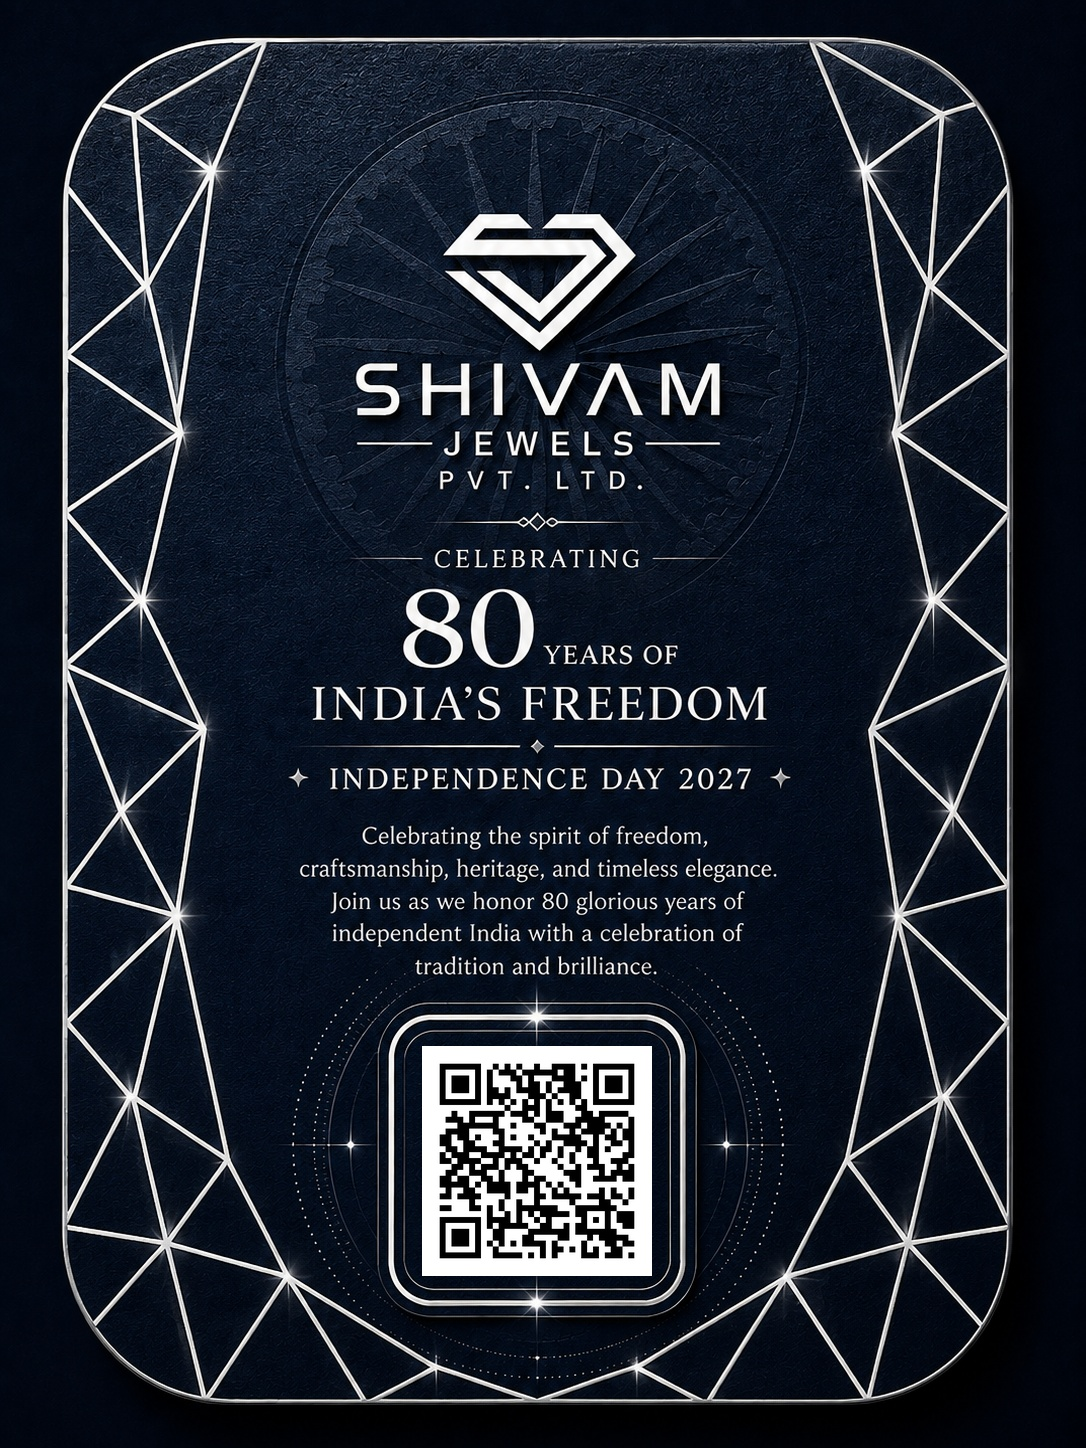
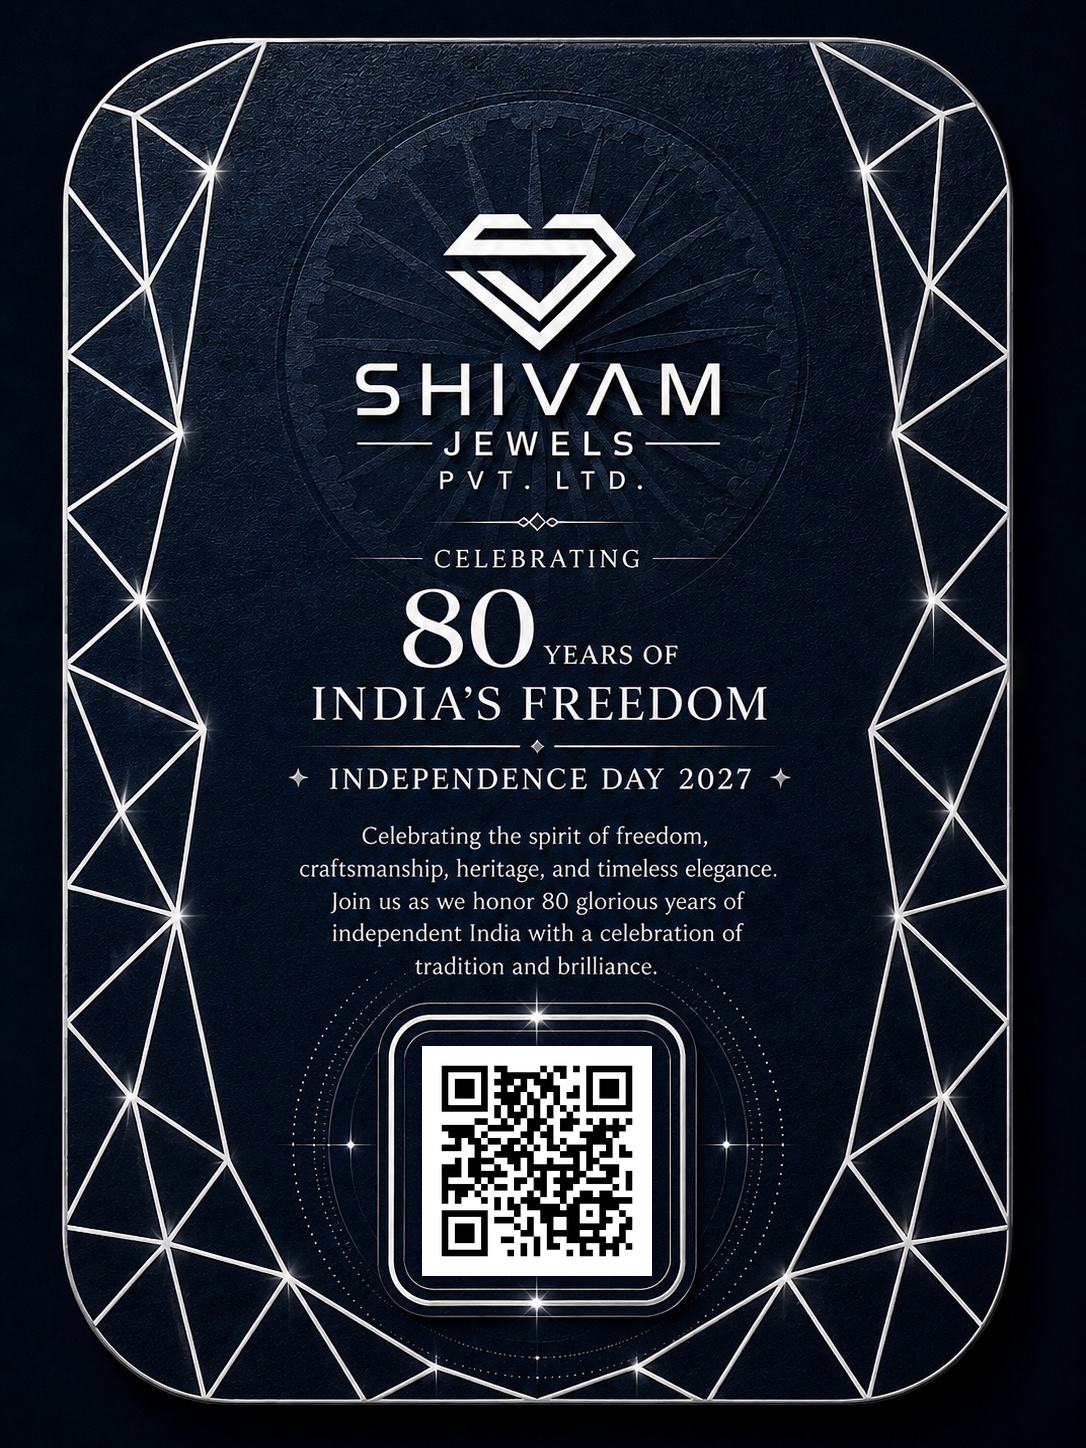
chore: update QR code to point to sjar.vercel.app

Changed region(s): [[0.395, 0.7148, 0.6077, 0.8702]]

diff --git a/generate_card.py b/generate_card.py
@@ -65,8 +65,8 @@ def stitch_qr_onto_card(base_image_path, qr_img, output_path):
     print(f"Success! Compiled card with QR code saved to: {output_path}")
 
 if __name__ == "__main__":
-    # URL pointing to the user's live custom subdomain WebAR portal
-    target_url = "https://3d.shivamai.studio/"
+    # URL pointing to the user's live Vercel WebAR portal
+    target_url = "https://sjar.vercel.app/"
     
     print(f"Generating QR Code for: {target_url}")
     qr_code_image = generate_qr_code(target_url)
